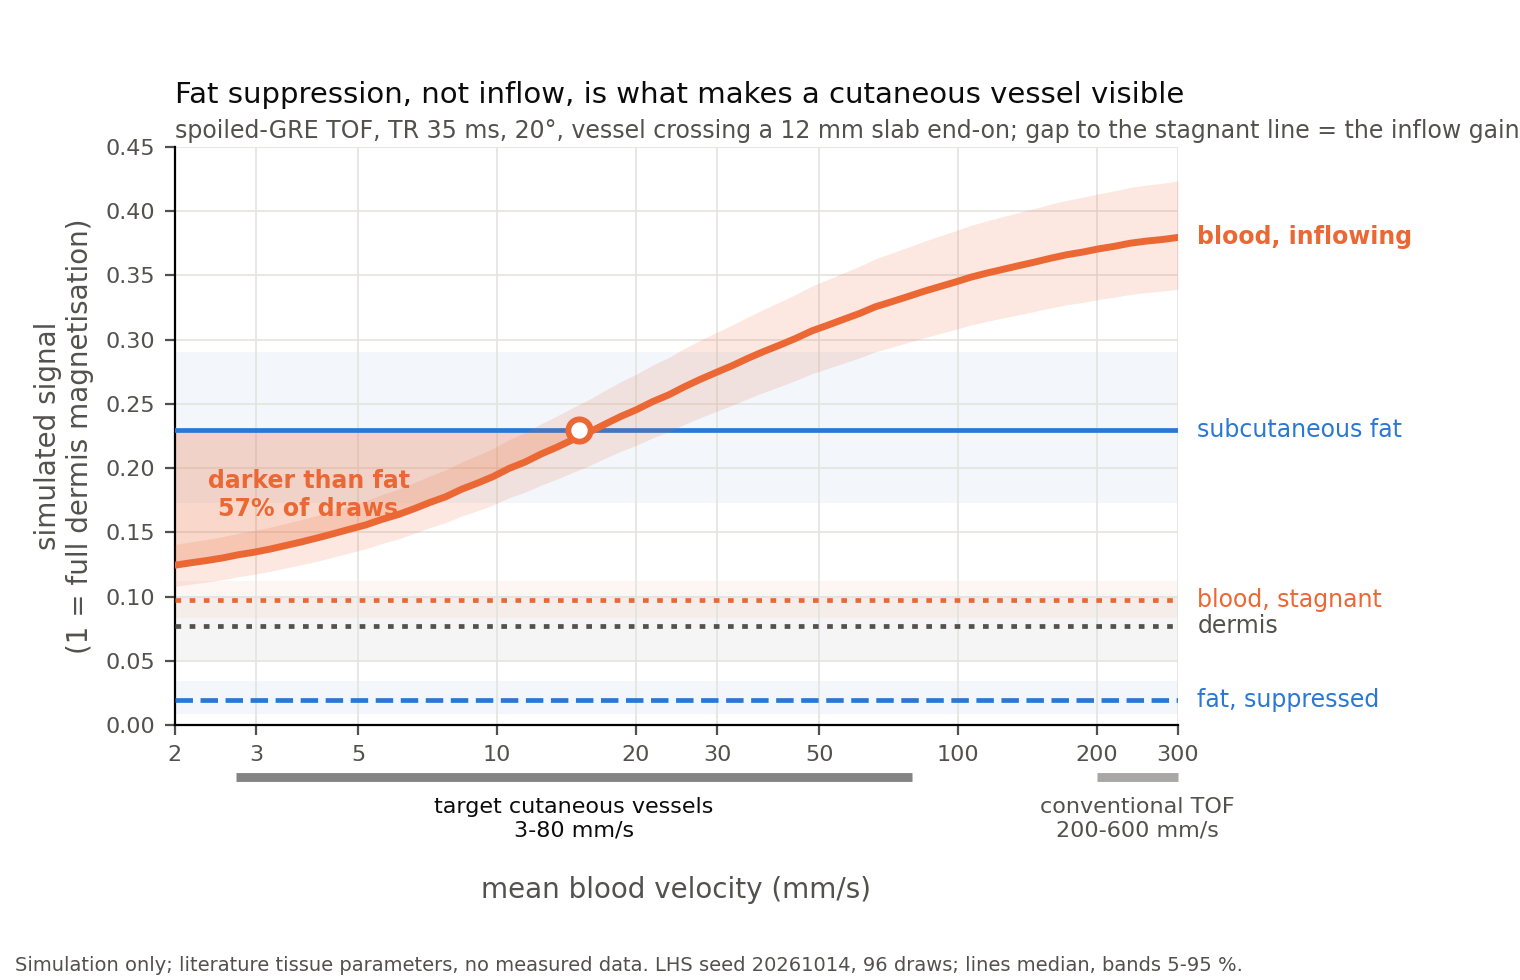
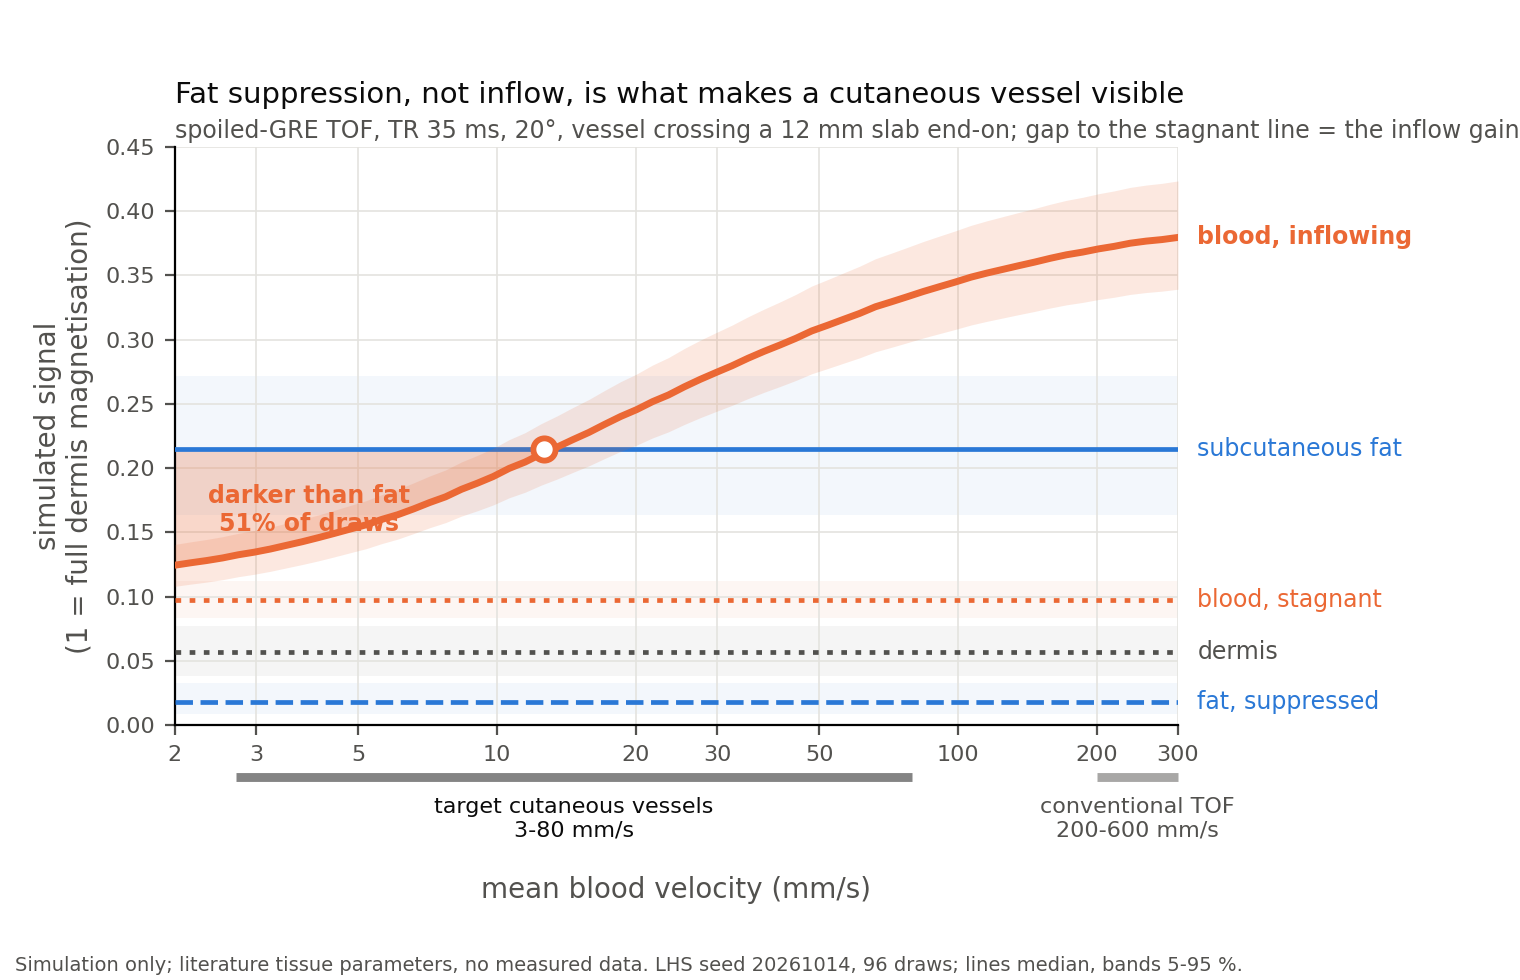
Measured skin relaxation times from Richard 1991; Barral has none
Richard et al., J Invest Dermatol 1991;97(1):120-125, Table I measures T1
and T2 of every skin layer in vivo at 1.5 T, 9 subjects, 5 ROI each. It
replaces guesses in three places, and corrects one that was wrong.

  dermis T2       20-60 -> 10-23 ms, now MEDIUM. Measured 13 +/- 2.4 ms in
                  calf and 17.9 +/- 5 in heel; the old interval did not
                  contain the measurement at the target site. Collagen is
                  ~70 % of dermal dry weight and constrains water proton
                  mobility, which is why dermal T2 is short.
  dermis T2*      5-20 -> 4-10 ms, capped by the measured T2. Sharma's
                  12 ms single-component value exceeds dermal T2 and
                  cannot stand; his bi-exponential fast component, 9.8 ms
                  carrying 91 % of signal, is the better guide.
  epidermis T1/T2 from VERY_LOW placeholders to LOW with measurements:
                  887 +/- 92 and 22.3 +/- 7 ms in calf. Epidermal T2 is
                  LONGER than dermal, which the paper attributes to the
                  absence of collagen - the opposite of what the old
                  placeholders assumed.
  hypodermis T2   45-160 -> 30-160 ms. The measured 35.4 +/- 3.6 ms in
                  calf sat below the old lower bound.

Barral et al. 2010 does NOT report relaxation times. It is a
sequence-comparison paper about motion, SNR and fat/water separation, and
[…]

Changed region(s): [[0.0928, 0.4286, 0.9276, 0.551], [0.1237, 0.7041, 0.8967, 0.7347], [0.773, 0.6122, 0.8349, 0.6735]]

diff --git a/tissues.py b/tissues.py
@@ -99,6 +99,7 @@ STANISZ = ("Stanisz et al., Magn Reson Med 2005;54:507-512, doi:10.1002/mrm.2060
            "Table 1, 3 T, 37 C [checked]")
 BOJORQUEZ = ("Bojorquez et al., Magn Reson Imaging 2017;35:69-80, doi:10.1016/j.mri.2016.08.021, "
              "a review pooling 3 T measurements across methods [checked]")
+RICHARD = ("Richard et al., J Invest Dermatol 1991;97(1):120-125, Table I: 1.5 T, 9 healthy subjects, 5 ROI each [checked]")
 QUERLEUX = ("Querleux et al., in Imaging Technologies and Transdermal Delivery in Skin Disorders, "
             "Wiley-VCH 2020, ch. 14 [checked]")
 
@@ -147,17 +148,19 @@ VENOUS_BLOOD = Tissue(
 
 EPIDERMIS = Tissue(
     name="epidermis",
-    t1_ms=Param(800, 1500, 1100, VL,
-                "no peer-reviewed in vivo 3 T epidermis T1 located. Sharma, Nature Precedings 2010, "
-                "doi:10101/npre.2010.4161.1 quotes T1 ~1000 ms without stating a field [checked, but "
-                "a preprint and field not stated]. The layer is ~100 um thick, so partial volume "
-                "dominates its contribution at the voxel sizes modelled here"),
-    t2_ms=Param(10, 40, 25, VL,
-                "no peer-reviewed in vivo 3 T epidermis T2 located. Sharma (above) quotes 20-35 ms "
-                "for epidermis and dermis together"),
-    t2star_ms=Param(5, 10, 8, VL,
-                    "no measurement located; assumed to sit below the epidermis T2 lower bound, as "
-                    "the invariant T2* <= T2 requires"),
+    t1_ms=Param(850, 1300, 1050, L,
+                f"{RICHARD} measures 887 +/- 92 ms in calf and 720 +/- 104 ms in heel at 1.5 T. No "
+                "3 T value located; T1 lengthens with field, so the interval is shifted up from the "
+                "1.5 T measurement rather than taken from it. The layer is ~100 um thick, so partial "
+                "volume dominates its contribution at the voxel sizes modelled here"),
+    t2_ms=Param(15, 40, 25, L,
+                f"{RICHARD} measures 22.3 +/- 7 ms in calf and 35.6 +/- 5 ms in heel at 1.5 T; the "
+                "site difference is significant (p < 0.01) and the lower leg is the target. T2 is "
+                "only weakly field-dependent, so the 1.5 T value transfers. Note epidermal T2 is "
+                "LONGER than dermal, which the same paper attributes to the absence of collagen"),
+    t2star_ms=Param(5, 15, 10, VL,
+                    "no measurement located; bounded above by the epidermis T2 lower bound, as the "
+                    "invariant T2* <= T2 requires"),
     pd_rel=Param(0.6, 1.2, 0.9, VL,
                  "estimate: viable epidermis assumed dermis-like in water content, while the stratum "
                  "corneum is near-invisible at these echo times"),
@@ -171,22 +174,28 @@ EPIDERMIS = Tissue(
 DERMIS = Tissue(
     name="dermis",
     t1_ms=Param(850, 1400, 1100, L,
-                f"{QUERLEUX} reports in vivo dermis T1 of 700-1000 ms at 1.5 T and 1000-1700 ms at "
-                "7 T, citing Richard et al., J Invest Dermatol 1991 and Barral et al., Magn Reson Med "
-                "2010;63:790-796 [both unchecked]. No 3 T value was located, so the interval is the "
-                "field interpolation between those two brackets. Barral measures skin at 3 T and "
-                "should be read directly"),
-    t2_ms=Param(20, 60, 35, L,
-                f"{QUERLEUX} describes dermal T2 as tens of milliseconds. Dermal T2 is multi-"
-                "exponential, with a dominant short component from collagen-bound water, so the "
-                "number depends on how it is fitted and on the echo spacing"),
-    t2star_ms=Param(5, 20, 12, L,
+                f"{RICHARD} measures 870 +/- 143 ms in calf and 728 +/- 104 ms in heel at 1.5 T, "
+                f"consistent with the 700-1000 ms bracket {QUERLEUX} quotes for 1.5 T against "
+                "1000-1700 ms at 7 T. No 3 T measurement was located, so the interval is the field "
+                "interpolation between those brackets. Barral et al., Magn Reson Med 2010;63:790-796 "
+                "images skin at 3 T but reports no relaxation times [checked]; the measurement is in "
+                "its reference 39, Barral et al., Skin T1 mapping at 1.5T, 3T and 7T, Proc ISMRM 2009 "
+                "p. 4451, which would settle this"),
+    t2_ms=Param(10, 23, 14, M,
+                f"{RICHARD} measures 13 +/- 2.4 ms in calf and 17.9 +/- 5 ms in heel at 1.5 T. The "
+                "site difference is significant (p < 0.01) and the lower leg is the target, so the "
+                "interval is weighted to the calf value. T2 is only weakly field-dependent. Dermal T2 "
+                "is short because collagen is ~70 % of dermal dry weight and constrains water proton "
+                "mobility; it is also multi-exponential, so the fitted value depends on echo spacing"),
+    t2star_ms=Param(4, 10, 8, L,
                     "Sharma, Nature Precedings 2010, doi:10101/npre.2010.4161.1 reports a single-"
                     "component dermal T2* of 12 +/- 1.4 ms over echo times 2.8-20 ms, and a "
                     "bi-exponential fit of 9.8 ms carrying ~91 % of the signal with a 42.7 ms "
-                    "remainder [checked, but a preprint]. Sensitivity analyses consistently make this "
-                    "the dominant parameter for blood/dermis contrast, so it warrants a direct "
-                    "measurement"),
+                    "remainder [checked, but a preprint]. That 12 ms sits above the dermis T2 lower "
+                    "bound measured by Richard, which T2* cannot exceed, so the interval is capped "
+                    "there and the bi-exponential fast component is the better guide. Sensitivity "
+                    "analyses consistently make this the dominant parameter for blood/dermis "
+                    "contrast, so it warrants a direct measurement"),
     pd_rel=Param(1.0, 1.0, 1.0, H, "reference tissue: dermis = 1 by definition"),
     fatsat_s=Param(0.7, 1.0, 0.9, VL,
                    "an MT proxy, not spectral suppression: the off-resonance fat pulse partially "
@@ -207,12 +216,13 @@ HYPODERMIS = Tissue(
                 "253-450 ms, including 371 +/- 8 ms (Gold et al., AJR 2004), 382 +/- 13 ms "
                 "(De Bazelaire et al.) and 421 +/- 104 ms (Barral et al.). The interval covers the "
                 "bulk of that spread"),
-    t2_ms=Param(45, 160, 90, L,
-                f"{BOJORQUEZ} tabulates 3 T fat T2 from 41 to 371 ms and states the value is strongly "
+    t2_ms=Param(30, 160, 70, L,
+                f"{RICHARD} measures 35.4 +/- 3.6 ms in calf at 1.5 T by spin echo. {BOJORQUEZ} "
+                "tabulates 3 T fat T2 from 41 to 371 ms and states the value is strongly "
                 "method-dependent: multi-echo spin echo gives ~113-154 ms, single spin echo ~41 ms, "
                 "fast spin echo rising with echo-train length. The spread is dominated by method, not "
                 "by biology"),
-    t2star_ms=Param(10, 45, 25, VL,
+    t2star_ms=Param(10, 30, 20, VL,
                     "no 3 T subcutaneous-fat T2* located. A mono-exponential T2* is in any case "
                     "ill-defined for fat, whose several spectral peaks dephase against each other"),
     pd_rel=Param(1.1, 1.6, 1.4, L,

diff --git a/docs/figure1b-walkthrough.md b/docs/figure1b-walkthrough.md
@@ -54,7 +54,7 @@ class Param:
 arterial_blood.t1_ms      1600 .. 1950   nominal 1650   medium
 arterial_blood.t2star_ms    45 .. 75     nominal 65     medium
 arterial_blood.pd_rel      1.1 .. 1.4    nominal 1.25   low
-dermis.t2star_ms             5 .. 20     nominal 12     LOW
+dermis.t2star_ms             4 .. 10     nominal  8     LOW
 ```
 
 **`nominal` is never read by any figure.** It exists for debugging and for the
@@ -88,8 +88,8 @@ Draw 0 came out as:
 | | T1 (ms) | T2\* (ms) | PD | fatsat_s |
 |---|---|---|---|---|
 | blood | 1830.5 | 54.03 | 1.297 | 1.000 |
-| dermis | 1014.1 | 13.21 | 1.000 | 0.901 |
-| fat | 428.8 | 40.07 | 1.598 | 0.212 |
+| dermis | 1014.1 | 7.28 | 1.000 | 0.901 |
+| fat | 428.8 | 27.18 | 1.598 | 0.212 |
 
 **Why "jointly" matters.** One Latin hypercube covers all 20 parameters at once,
 so draw 0 is a single coherent world — that blood sits beside *its own* dermis

diff --git a/README.md b/README.md
@@ -99,9 +99,10 @@ print(low_confidence_report())   # every LOW and VERY_LOW parameter, with its so
 print(unchecked_sources())       # sources not yet read at the publisher
 ```
 
-29 of 44 parameters are currently LOW or VERY_LOW. Epidermis is entirely
-unmeasured at 3 T; dermis `fatsat_s` and `mtc_s` rest on physical arguments
-rather than measurements. This is deliberate — the uncertainty analysis is the
+Most parameters are LOW or VERY_LOW. Skin relaxation times come from a 1.5 T
+study (Richard et al. 1991) and are shifted to 3 T rather than measured there;
+dermis `fatsat_s` and `mtc_s` rest on physical arguments rather than
+measurements, and epidermis T2* has no measurement behind it at all. This is deliberate — the uncertainty analysis is the
 point, not a robustness appendix — but it should be read before any number here
 is quoted.
 
